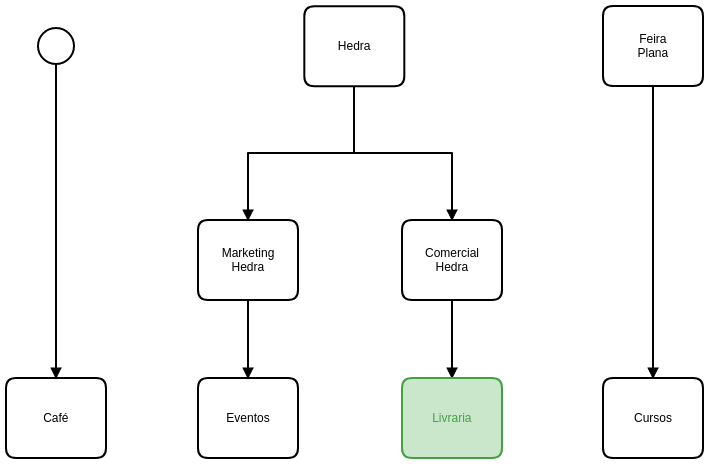
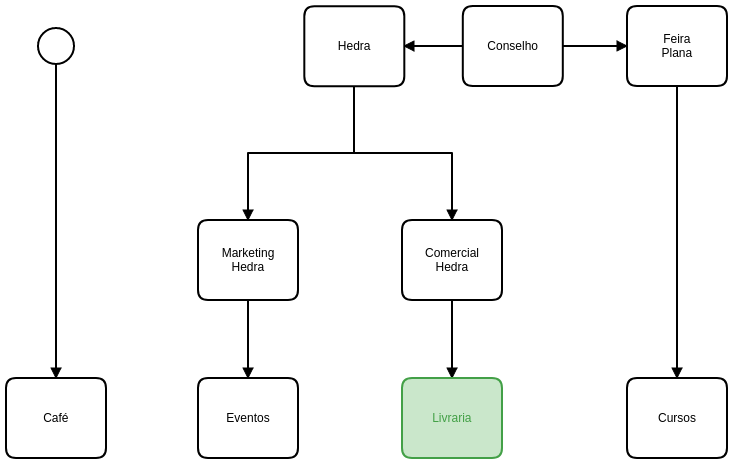
...

diff --git a/docs/livraria.rst b/docs/livraria.rst
@@ -13,13 +13,13 @@ A Hedra e a Plana
 
 A ``Livraria``  e os ``Eventos`` estão subordinados à Hedra. 
 
-As operações da ``Livraria`` dependem dos processos do 
+Isto significa que as operações da ``Livraria`` dependem dos processos do 
 departamento comercial da Hedra. E as operações 
 dos `Eventos` dependem dos processos do Marketing. 
 
 
 
-As principais responsabilidades são:
+As principais operações são:
 
 +-----------------+-------------+
 | Comercial       | Marketing   |
@@ -31,6 +31,9 @@ As principais responsabilidades são:
 | Infra-estrutura | Comumicação |
 +-----------------+-------------+
 
+.. Important::
+	A identidade da Casa Plana, porém, é uma responsabilidade da empresa Bia Bittencourt ME
+	e as decisões ou divergências devem ser discutidas em conselho e não administrativamente. 
 
 Do fluxo de atividades e responsabilidades dos eventos
 ------------------------------------------------------
